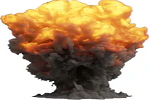
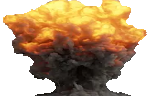
v0.80 new additions, new files

diff --git a/main.py b/main.py
@@ -17,17 +17,16 @@ pygame.font.init()  # ||-||-||
 screen = pygame.display.set_mode((0, 0), pygame.FULLSCREEN)  # here's blits all elements of gameplay
 pygame.display.set_caption("САМОЛЕТИК")  # just title for app
 WIN_WIDTH, WIN_HEIGHT = pygame.display.get_window_size()  # const values WIDTH and HEIGHT of current window
-print(WIN_WIDTH, WIN_HEIGHT)
 FPS = 60
 
 settings = json.load(open('data/settings.json', 'r'))  # data from settings.json here
-if "total_score" not in settings:  # rules if settings not exists
-    settings["total_score"] = 0
-if "music" not in settings:
+if "music" not in settings:  # rules for settings.json
     settings["music"] = 1
 if "records" not in settings:
     settings["records"] = dict()
 settings["current_profile"] = False
+settings["level"] = 0
+settings["total_score"] = 0
 
 font_for_text = pygame.font.SysFont('Comic Sans MS', 30)
 pygame.mixer.music.load("data/audis/alexander-nakarada-near-end-action.mp3")  # background music
@@ -39,11 +38,13 @@ else:  # if music OFF on start
     pygame.mixer.music.play(-1)
     pygame.mixer.music.pause()
 
+authors_flag = False
+
 
 def camera_configure(camera, target_rect):  # definition to calculate move of camera
     l, t, _, _ = target_rect
     _, _, w, h = camera
-    l, t = -l + WIN_WIDTH / 2, -t + WIN_HEIGHT / 2
+    l, t = -l + WIN_WIDTH / 2 - 250, -t + WIN_HEIGHT / 2
 
     l = min(0, l)  # Не движемся дальше левой границы
     l = max(-(camera.width - WIN_WIDTH), l)  # Не движемся дальше правой границы
@@ -54,7 +55,7 @@ def camera_configure(camera, target_rect):  # definition to calculate move of ca
 
 
 def clicked_start():  # useless thing just for bug hunting
-    print('Начинаем игру')
+    pass
 
 
 def close_game():
@@ -102,7 +103,7 @@ if not settings["music"]:
 
 
 def preview(is_active=None, coords_author=None):
-    if not(is_active and coords_author):
+    if not (is_active and coords_author):
         return
     panel = pygame.image.load("data/pics/author1.png")
     panel.convert_alpha()
@@ -130,6 +131,16 @@ def preview(is_active=None, coords_author=None):
     # menu()
 
 
+def authors(scrn=None, coords=None):
+    pass
+
+
+def change_level():
+    settings["level"] += 1
+    settings["level"] %= 3
+    return True
+
+
 def menu():  # menu screen
     background = pygame.image.load("data/pics/menu1.png")
     button_start = ButtonText((WIN_WIDTH // 2, WIN_HEIGHT // 4), ' НАЧАТЬ ', 150, clicked_start,
@@ -153,8 +164,8 @@ def menu():  # menu screen
     button_entname.centerize()  # centralize text on button
 
     button_author = ButtonText((WIN_WIDTH - 300, 100),
-                                ' АВТОРЫ ', 30, preview,
-                                (0, 0, 0), (0, 0, 255))
+                               ' АВТОРЫ ', 30, authors,
+                               (0, 0, 0), (0, 0, 255))
     button_author.rect[0] = WIN_WIDTH - button_author.rect[2]
     button_author.rect[1] = WIN_HEIGHT - button_author.rect[3]
 
@@ -162,6 +173,10 @@ def menu():  # menu screen
     profile_rec.rightize(WIN_WIDTH, WIN_HEIGHT)
     if settings["current_profile"]:
         profile_rec.edit_text(f"{settings['current_profile']}, Ваш рекорд: {settings['total_score']}")
+    button_level = ButtonText((0, 0), f" Текущий уровень: {settings['level']} ",
+                              28, change_level, background_color=(150, 0, 0))
+    button_level.rect[0] = WIN_WIDTH - button_level.rect[2]
+    button_level.rect[1] = profile_rec.coords[1] + button_level.rect[3] + 10
     running = True
     while running:
         screen.fill((0, 0, 0))
@@ -171,6 +186,11 @@ def menu():  # menu screen
                 return
             if event.type == pygame.MOUSEBUTTONDOWN or event.type == pygame.MOUSEMOTION:
                 button_author.update(event)
+                if button_level.update(event):
+                    button_level = ButtonText((0, 0), f" Текущий уровень: {settings['level']} ",
+                                              28, change_level, background_color=(150, 0, 0))
+                    button_level.rect[0] = WIN_WIDTH - button_level.rect[2]
+                    button_level.rect[1] = profile_rec.coords[1] + button_level.rect[3] + 10
                 if button_entname.update(event):
                     enter_name(input_name.text)
                     profile_rec.edit_text(f"{settings['current_profile']}, Ваш рекорд: {settings['total_score']}")
@@ -183,6 +203,7 @@ def menu():  # menu screen
             if event.type == pygame.MOUSEBUTTONDOWN:
                 button_volume.update(event)
         screen.blit(background, (0, 0))
+
         button_start.draw(screen)
         button_controls.draw(screen)
         button_records.draw(screen)
@@ -190,8 +211,10 @@ def menu():  # menu screen
         button_exit.draw(screen)
         button_volume.draw(screen)
         button_author.draw(screen)
+        button_level.draw(screen)
         input_name.draw(screen)
         profile_rec.draw(screen)
+
         pygame.display.flip()
     game()
     return
@@ -253,8 +276,9 @@ def records():
 def game():  # game cycle
     prev_balance = 0  # previous score for editing speed plane
 
-    sky = Background("sky", "data/pics/sky.png")  # sky box
-    ground = Ground(sky.image.get_height(), "data/pics/ground.png")  # ground box
+    sky = Background("sky", f"data/pics/sky{settings['level']}.png")  # sky box
+    ground = Ground(sky.image.get_height(), f"data/pics/ground{settings['level']}.png")  # ground box
+
     plane = Plane((0, 1150), sky.rect.height)  # main character
     interface = Interface(WIN_WIDTH, WIN_HEIGHT, settings["total_score"])  # interface thing
 
@@ -356,4 +380,4 @@ def game():  # game cycle
 
 
 if __name__ == '__main__':
-    menu()  # preview screen, starts firstly for open menu screen
+    menu()

diff --git a/modules/tank.py b/modules/tank.py
@@ -1,5 +1,4 @@
 import pygame
-from math import sin, cos, radians
 
 pygame.init()
 
@@ -9,7 +8,9 @@ class Tank(pygame.sprite.Sprite):
         super().__init__()
 
         self.name = 'tank'
-        self.statuses = [pygame.image.load("data/pics/tank.png"), pygame.image.load("data/pics/tank_extraction.png")]
+        self.statuses = [pygame.image.load("data/pics/tank.png"),
+                         pygame.image.load("data/pics/tank_extraction.png"),
+                         pygame.image.load("data/pics/explosion.png")]
         self.image = self.statuses[0]
         self.rect = pygame.Rect(coords[0], coords[1], self.image.get_width(), self.image.get_height())
         self.ground = ground
@@ -25,15 +26,33 @@ class Tank(pygame.sprite.Sprite):
         else:
             self.on_ground = True
             self.image = self.statuses[0]
-            self.rect = pygame.Rect(self.rect.x, self.ground.rect.y - self.ground.image.get_height() * 2,
+            self.rect = pygame.Rect(self.rect.x, self.ground.rect.y - self.ground.image.get_height() - 60,
                                     self.image.get_width(), self.image.get_height())
         if self.death:
-            self.image = pygame.transform.rotozoom(self.image, 0, self.size)
-            self.rect = pygame.Rect(self.rect.x, self.rect.y, self.image.get_width(), self.image.get_height())
-            self.size -= 0.1
+            self.image = pygame.transform.rotozoom(self.statuses[2], 0, self.size)
+            self.rect = pygame.Rect(self.rect.x, self.rect.y + self.image.get_height(), self.image.get_width(),
+                                    self.image.get_height())
+            self.size -= 0.01
         if self.size == 0:
             self.kill()
         self.image.set_colorkey((255, 255, 255))
 
     def is_collided_with(self, sprite):
         return self.rect.colliderect(sprite.rect)
+
+
+# class EnemyPlane(pygame.sprite.Sprite):
+#     def __init__(self, coord_y, angle, ground):
+#         super().__init__()
+#
+#         self.name = 'enemy_plane'
+#         self.statuses = [pygame.image.load("data/pics/tank.png"),
+#                          pygame.image.load("data/pics/tank_extraction.png"),
+#                          pygame.image.load("data/pics/explosion.png")]
+#         self.image = self.statuses[0]
+#         self.rect = pygame.Rect(coords[0], coords[1], self.image.get_width(), self.image.get_height())
+#         self.ground = ground
+#         self.size = 1
+#         self.death = False
+#         self.on_ground = False
+

diff --git a/modules/user_interface.py b/modules/user_interface.py
@@ -24,20 +24,17 @@ class Interface(pygame.sprite.Sprite):
         self.surf.convert_alpha()
         if self.health == 0:
             self.death()
-        if self.alive:
-            balance_text = font_for_text.render(f'ТЕКУЩИЕ ОЧКИ: {self.current_score}', False, (255, 0, 0))
-            total_text = font_for_text.render(f'РЕКОРД: {self.total_score}', False, (255, 0, 0))
-            screen.blit(balance_text, (self.window_size[0] - balance_text.get_width() - 5, 5))
-            screen.blit(total_text, (self.window_size[0] - total_text.get_width() - 5,
-                                     total_text.get_height() + balance_text.get_rect().x))
-            self.cooldown %= 101
-            if self.cooldown < 100:
-                self.cooldown += 1
-            pygame.draw.rect(self.surf, (255, 0, 0), (0, 5, self.health * 3, 30))
-            pygame.draw.rect(self.surf, (0, 0, 255),
+        balance_text = font_for_text.render(f'ТЕКУЩИЕ ОЧКИ: {self.current_score}', False, (255, 0, 0))
+        total_text = font_for_text.render(f'РЕКОРД: {self.total_score}', False, (255, 0, 0))
+        screen.blit(balance_text, (self.window_size[0] - balance_text.get_width() - 5, 5))
+        screen.blit(total_text, (self.window_size[0] - total_text.get_width() - 5,
+                                 total_text.get_height() + balance_text.get_rect().x))
+        self.cooldown %= 101
+        if self.cooldown < 100:
+            self.cooldown += 1
+        pygame.draw.rect(self.surf, (255, 0, 0), (0, 5, self.health * 3, 30))
+        pygame.draw.rect(self.surf, (0, 0, 255),
                              (0, total_text.get_height() + balance_text.get_rect().x, self.cooldown * 3, 30))
-        else:
-            pass
         screen.blit(self.surf, (0, 0))
 
     def plus_score(self):

diff --git a/modules/plane.py b/modules/plane.py
@@ -16,15 +16,20 @@ class Plane(pygame.sprite.Sprite):  # REWRITE ROTATE MOVE
         self.rect = pygame.Rect(coords[0], coords[1], self.image.get_width(), self.image.get_height())
         self.angle = 0
         self.alive = True
-        self.speed = 6
+        self.speed = 8
 
     def update(self):
+        print(self.rect.x, self.rect.y)
         if self.alive:
             self.rect.x += cos(radians(self.angle)) * self.speed
             self.rect.y -= sin(radians(self.angle)) * self.speed
         else:
-            if self.rect.y < self.sky_height:
+            if self.rect.y < self.sky_height - 30:
                 self.rect.y += 4
+            else:
+                self.image = pygame.image.load("data/pics/explosion.png")
+                self.image.set_colorkey((255, 255, 255))
+                self.rect = pygame.Rect(self.rect.x, self.rect.y, self.image.get_width(), self.image.get_height())
 
     def clicked_button(self, key):
         if self.alive:

diff --git a/modules/buttons.py b/modules/buttons.py
@@ -136,7 +136,6 @@ class Label:
         self.coords[0] = window_width - self.width - 10
         if window_height:
             self.coords[1] = self.height
-        print(self.coords)
 
 
 # https://stackoverflow.com/questions/54363047/how-to-draw-outline-on-the-fontpygame (function down)
